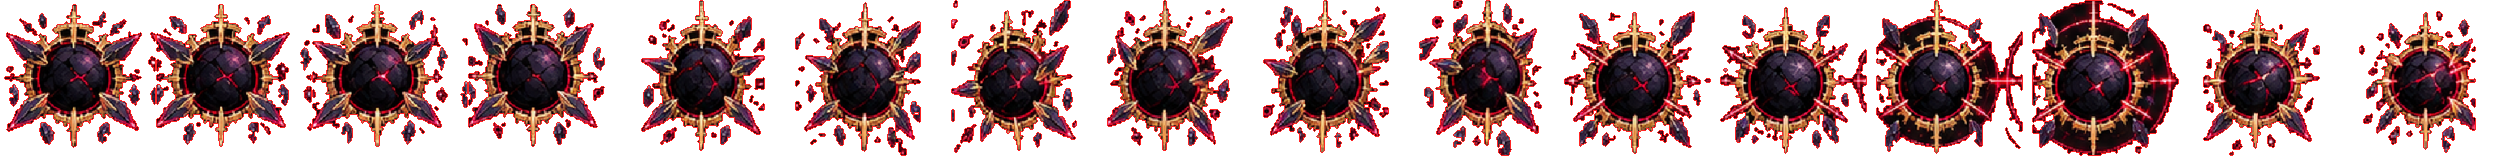
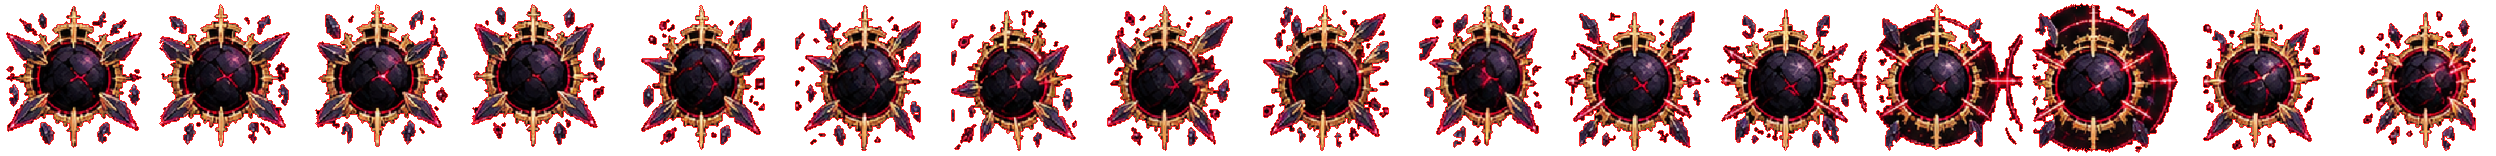
fix: 식광 본체 그림의 네모로 잘린 가장자리 다듬기(걸친 파편 제거, 본체 가장자리 흐림)

diff --git a/docs/DECISIONS.md b/docs/DECISIONS.md
@@ -687,3 +687,4 @@
 - 마기카이저 지열 분출 폭발: 원본 vfx.kaiser.debris가 네모로 잘린 조각이라 빼고 어깨 미사일 집속 폭발(fx_kaiser_cluster)을 쓴다. public/assets/mku/fx_kaiser_debris.png 파일은 남아 있다(어디서도 쓰지 않음).
 - 식광 본체 그림 찌꺼기: 원본 프레임에 붙은 1~2px 직선(돌진 준비 4번째 프레임 몸 옆에 붙은 세로선, 전환 8번째 세로선)과 대기 1번째 프레임 위의 글자 점 무리를 build-art cleanBossFrame으로 지운다(541px). 몸 둘레의 일부러 그린 파편·전환 때 에너지 줄기는 둔다.
 - 식광 패턴: Orb 바탕 — 모으는 동안 둘레의 빛을 빨아들이며 움츠러들고(떨림), 터질 때 부풀며 충격파·불티. 그림자 추적·광역 잠식·일식·중력 붕괴가 쓴다. 흑점 낙하는 하늘에서 예고 원으로 곧장 떨어지는 흑점(fx_eclipse_meteor, 빛 꼬리) + 흑일의 낙광우 적중. 궤도 절단·일식의 파편은 쏠 때 식광 칼날 개화(AimFan release). 중력 붕괴 끝은 흑일 핵 붕괴, 광역 잠식 적중은 개기식 침식권.
+- 식광 본체 원본(팩·이전 자산 모두)이 256칸 안 33~223 네모로 잘려 있어 파편·빛이 일직선으로 끊겼다. 잘리지 않은 원본은 없다. build-art unclip: 잘린 선에 걸친 파편(본체 아님)은 통째로 지우고(10586px), 본체가 선에 닿은 곳은 12px 안에서 들쭉날쭉 흐려진다. 몸 크기는 다듬기 전 그림 크기로 배율을 고정해 그대로(bossActor refSize).
